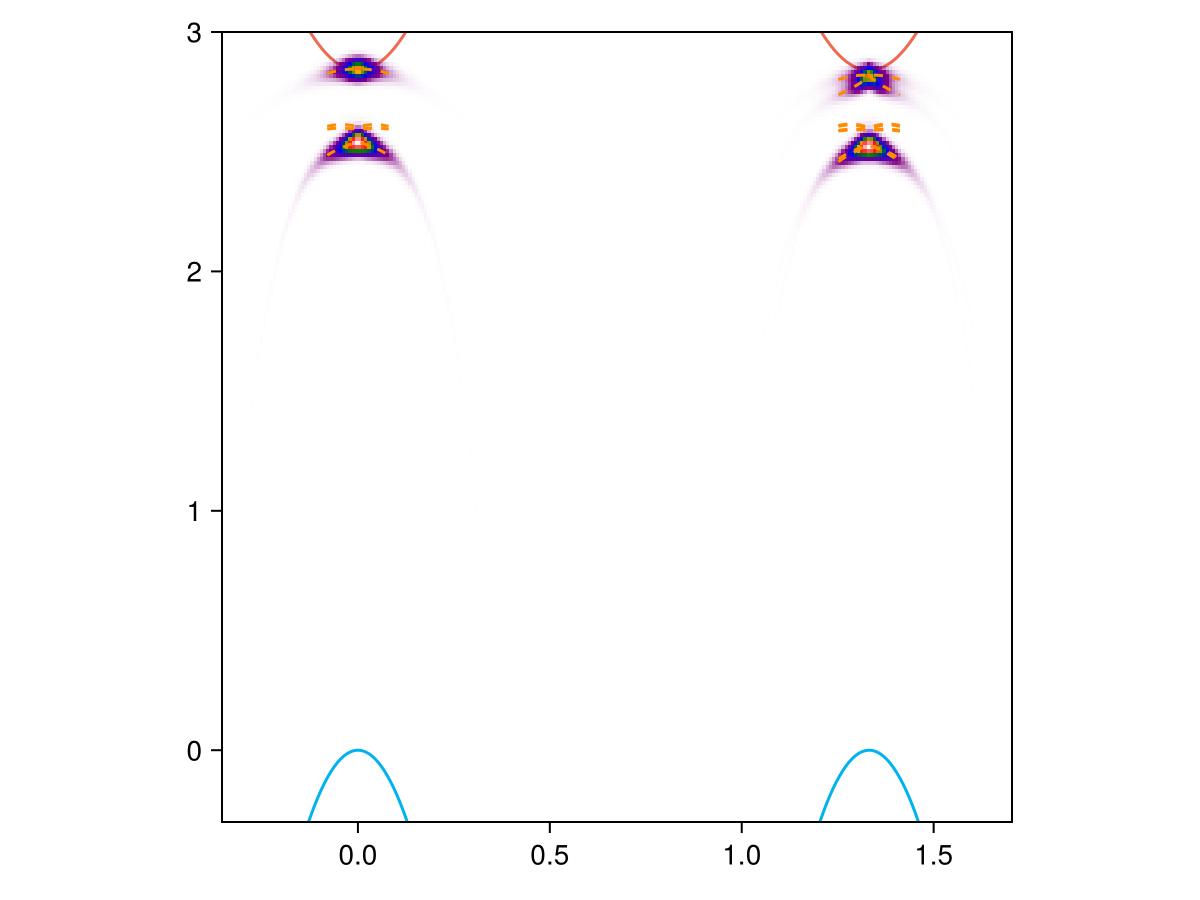
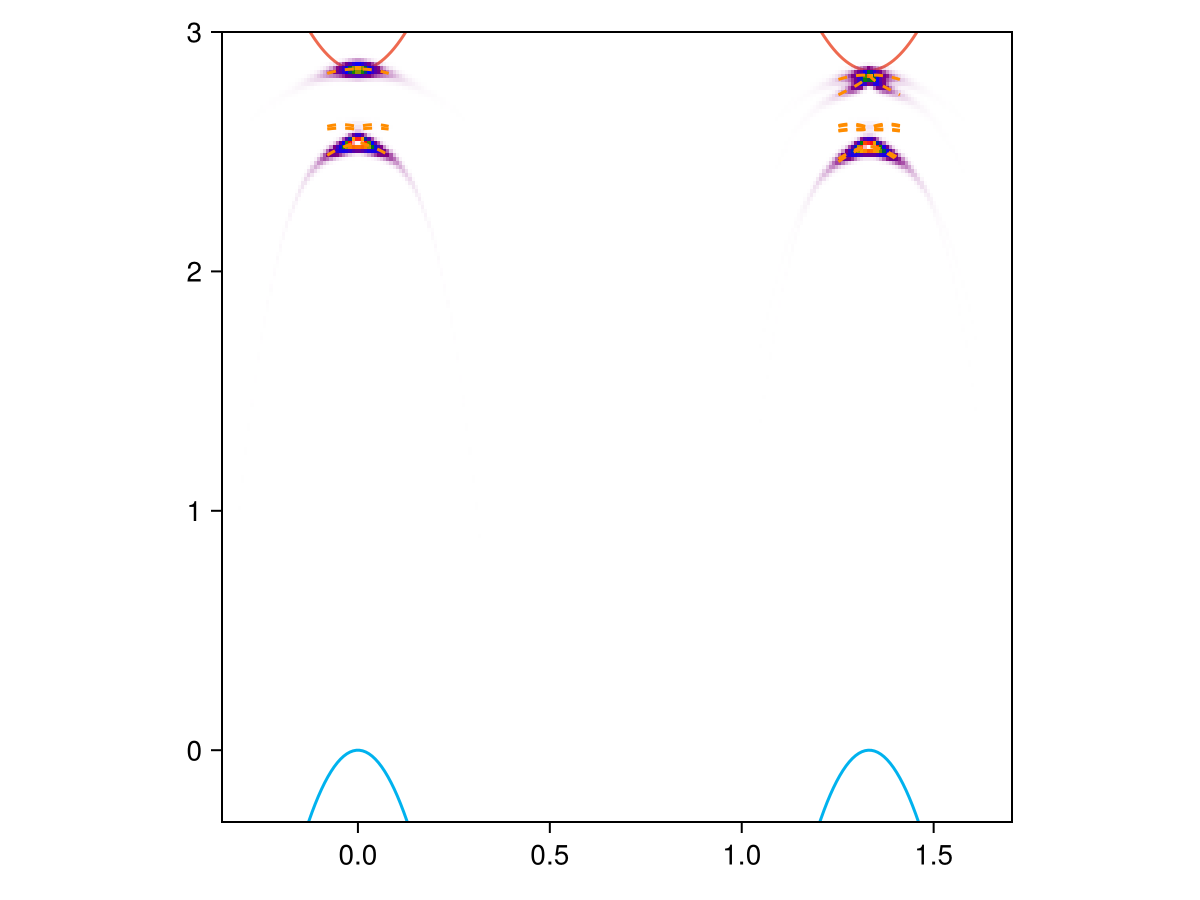
update plots

Changed region(s): [[0.6783, 0.0622, 0.7708, 0.1867], [0.2467, 0.1244, 0.3392, 0.1867], [0.2467, 0.0622, 0.3392, 0.0933]]

diff --git a/simplified/trion-to-exciton.md b/simplified/trion-to-exciton.md
@@ -8,6 +8,15 @@ and we get the follows:
 
 ![](eeh-heatmap-prototype-discrete-final-single-exciton.png)
 
+Note that the momentum spread of the signature is narrower than the [exciton ARPES heatmap](ehh-no-momentum-display.md),
+although the dispersion relations of the both heatmaps are identical to the exciton band.
+The reason is the different overlap matrix elements:
+in the heatmap presented above, we are calculating the overlap between the two blurry blobs,
+while in the exciton ARPES calculation, we calculate the overlap between a blurry blob and a delta function.
+If the [trion wave function](wfn.jl) is turned to the old `(1 + k^2 a^2 / 4)^2`,
+the momentum spread of the signature looks much closer to the exciton ARPES heatmap.
+That the momentum spread of the signature is much narrower means if we want the exciton band to be seen clearly, then the energy broadening should be reduced.
+
 Note the function invocation takes the following form:
 ```julia
 Akω_total = trion_ARPES_eeh(trion, P, Ak1k2, IntraValley2DExciton, [exciton_direct], [Avck_A1s_bright], [rk], k1_list, ω_list, broaden)
@@ -44,3 +53,13 @@ meaning that the parabolic-linear splitting is absent;
 on the other hand, when the electron at the K' valley is excited,
 the residue state is a exciton near Γ point,
 and the parabolic-linear exciton band structure appears in the ARPES signature.
+Note that as is discussed above,
+the momentum spread of the signature is low,
+and if we want to display the exciton bands clearly,
+the energy broadening needs to be reduced.
+The result is exemplified above.
+
+We zoom in. Running [`eeh-heatmap-prototype-discrete-final-zoom-in.jl`](eeh-heatmap-prototype-discrete-final-zoom-in.jl), we get
+
+![](eeh-heatmap-prototype-discrete-final-zoom-in.png)
+

diff --git a/simplified/eeh-display-discrete.md b/simplified/eeh-display-discrete.md
@@ -6,4 +6,7 @@ we get
 
 ![](eeh-heatmap-prototype-discrete-final.png)
 
-To make 
+To make the figure look more "elaborated", run [`eeh-heatmap-prototype-discrete-final-zoom-in-display.jl`](eeh-heatmap-prototype-discrete-final-zoom-in-display.jl),
+and we get 
+
+![](eeh-heatmap-prototype-discrete-final-zoom-in-display.png)
